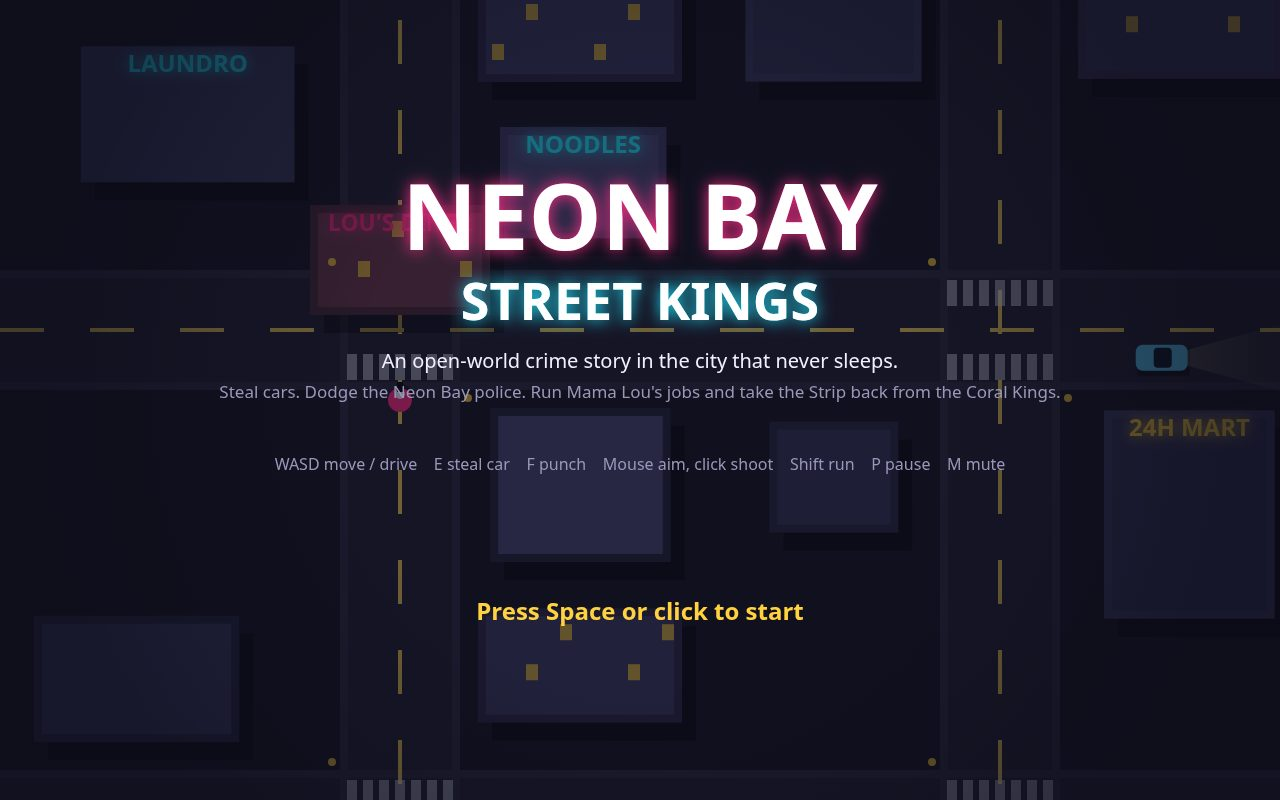
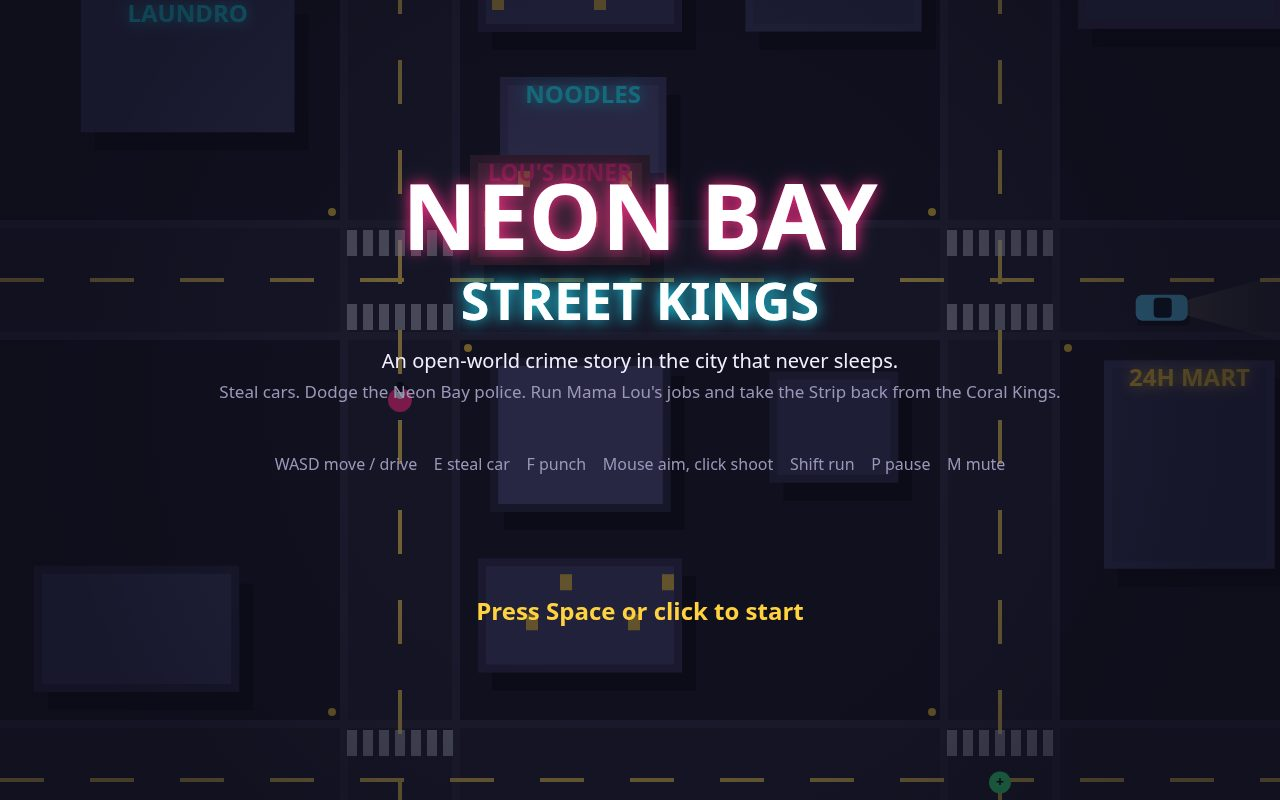
Fix gameplay blockers found in play-testing
- world/main/shots input shape: updatePlayer reads up/down/left/right
  and aimX/aimY, but main.js and shots.js passed moveX/moveY and an
  aim object, so the player could not move, drive, or shoot. Translate
  the input state in main.js and use the same shape in shots.js.
- world.js: import WATER_X and AVENUES, which updateTraffic and the
  clamps used but never imported (threw on the first off-road car).
- city.js: Lou's Diner and Rico's Hideout sat on the road centre-lines,
  blocking avenue 400 and the avenue 2200 / street 1900 corner and
  wedging the player against the diner on spawn. Both buildings now
  sit beside the road; mission targets stay on the road and reachable.
- Spawn the player on avenue 400 south of the diner for a clear run.
- shots.js: wantedTimer counts up to the decay, so stage the chase
  with wantedTimer 0 (was 14, which decayed a star on the first step).
- render.js: opaque top bar, and hide the on-foot hint / objective
  arrow / speed on non-play screens.
- main.js: announce 'Playing.' when resuming from pause.

diff --git a/game/src/city.js b/game/src/city.js
@@ -85,13 +85,17 @@ export function buildCity(random) {
   }
 
   // Lou's Diner and Rico's Hideout get their own signed buildings.
+  // Both sit beside the road, never on it: the diner fronts avenue 400
+  // from the east, the hideout sits south-east of the avenue 2200 /
+  // street 1900 corner, so the roads stay drivable and the mission
+  // targets (the diner door, the hideout door) stay reachable.
   buildings.push({
-    x: PLACES.diner.x - 90, y: PLACES.diner.y - 55, w: 180, h: 110,
+    x: PLACES.diner.x + 70, y: PLACES.diner.y - 55, w: 180, h: 110,
     color: '#4a2b3d', roof: '#6b3a52',
     sign: { text: "LOU'S DINER", color: PALETTE.neonPink }, tall: false,
   });
   buildings.push({
-    x: PLACES.hideout.x - 80, y: PLACES.hideout.y - 50, w: 160, h: 100,
+    x: PLACES.hideout.x + 130, y: PLACES.hideout.y + 100, w: 160, h: 100,
     color: '#2b3d4a', roof: '#3d5a68',
     sign: { text: 'HIDEOUT', color: PALETTE.neonCyan }, tall: false,
   });

diff --git a/game/src/world.js b/game/src/world.js
@@ -123,7 +123,7 @@ export function createWorld(seed) {
     state.justCompleted = null;
     state.shake = 0;
     state.player.x = PLACES.diner.x;
-    state.player.y = PLACES.diner.y + 140;
+    state.player.y = PLACES.diner.y + 190;
     state.player.angle = -Math.PI / 2;
     state.player.speed = 0;
     state.player.onFoot = true;

diff --git a/game/src/main.js b/game/src/main.js
@@ -156,7 +156,10 @@ function tick() {
     return;
   }
   if (screen === SCREEN_PAUSED) {
-    if (keys.pause || keys.confirm) screen = SCREEN_PLAY;
+    if (keys.pause || keys.confirm) {
+      screen = SCREEN_PLAY;
+      announce('Playing.');
+    }
     input.clearActions();
     return;
   }
